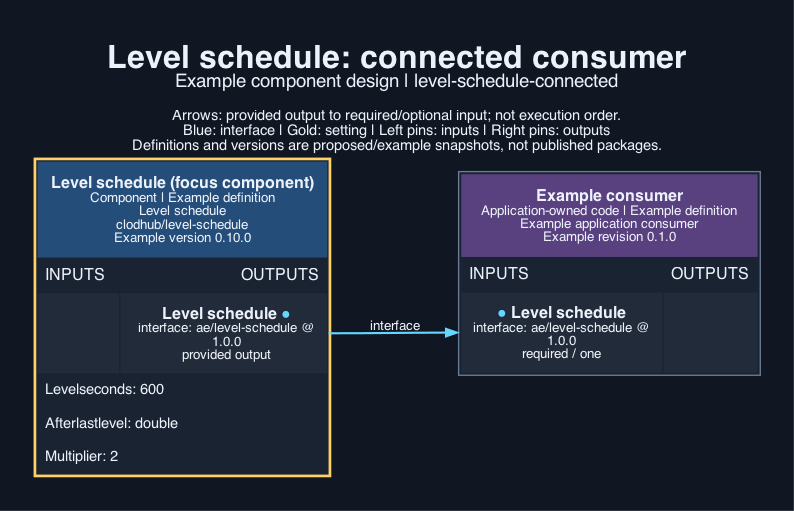
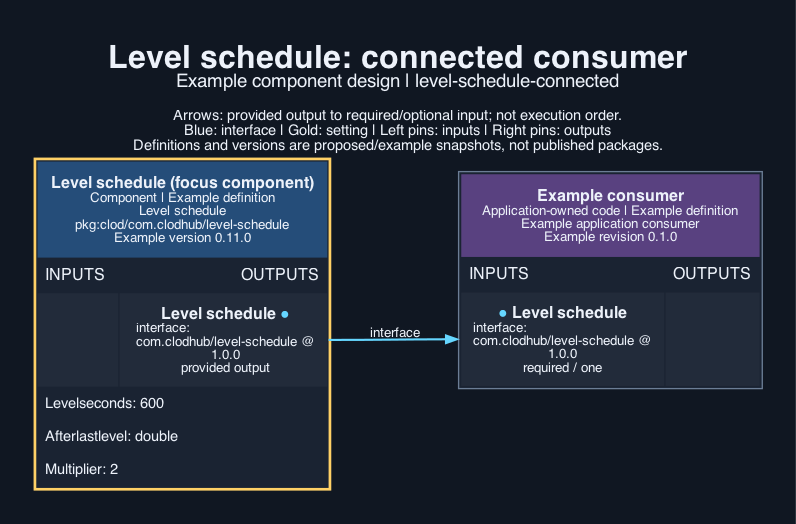
level-schedule 0.11.0: package URL names, clod, com.clodhub interface types

diff --git a/INSTRUCTIONS.md b/INSTRUCTIONS.md
@@ -3,12 +3,12 @@
 ## For the agent
 Select this component for any game whose stakes rise on a timer. Set `levelSeconds` from the recipe's level length answer, and `afterLastLevel` and `multiplier` from the house rules (hold'em: 600, double, 2). Supply the level list from the rules file. Connect the provided `level-schedule` to the tournament component.
 
-- Select package `clodhub/level-schedule` version `0.10.0`.
+- Select package `pkg:clod/com.clodhub/level-schedule` version `0.11.0`.
 - Settings to configure:
   - `levelSeconds` (integer; optional; default `600`)
   - `afterLastLevel` (string, slug; optional; default `double`)
   - `multiplier` (integer; optional; default `2`)
-- Connect the provided `level-schedule` (ae/level-schedule 1.0.0) to the consumer that needs it.
+- Connect the provided `level-schedule` (com.clodhub/level-schedule 1.0.0) to the consumer that needs it.
 - No accounts or keys are needed.
 
 ## For the developer
@@ -18,4 +18,4 @@ Pass the unpaused level clock in milliseconds; do not pass wall-clock time or th
 From the component directory:
 
 - `node --test tests/web.test.ts` (web, required-local; tools: node 26.5)
-- `python3 -m aepm review <digest> --store STORE --policy POLICY --trusted --allow-network` checks an archive fetched with `python3 -m aepm fetch clodhub/level-schedule@VERSION --store STORE --from https://clodhub.com` and runs its suites.
+- `python3 -m clod review <digest> --store STORE --policy POLICY --trusted --allow-network` checks an archive fetched with `python3 -m clod fetch level-schedule@VERSION --store STORE --from https://clodhub.com` and runs its suites.

diff --git a/CONTRACT.md b/CONTRACT.md
@@ -21,7 +21,7 @@ Dependencies: none.
 `tools.lock.json` pins verification tools: node 26.5. Licence: `Apache-2.0` (`LICENCE`, `NOTICE`).
 
 ## Provided interfaces
-- `interfaces/level-schedule.json` defines `level-schedule` (ae/level-schedule) version 1.0.0: an OpenRPC 1.3.2 document, one method per function (a member of a created object is `<Type>.<member>`), with parameter, result and data types as JSON Schema 2020-12 (`components.schemas`) and thrown errors under `errors`.
+- `interfaces/level-schedule.json` defines `level-schedule` (com.clodhub/level-schedule) version 1.0.0: an OpenRPC 1.3.2 document, one method per function (a member of a created object is `<Type>.<member>`), with parameter, result and data types as JSON Schema 2020-12 (`components.schemas`) and thrown errors under `errors`.
 
 ## Required interfaces
 None.

diff --git a/visual/output/description.md b/visual/output/description.md
@@ -1,3 +1,3 @@
 # Level schedule
 
-The level-schedule component at version 0.10.0 provides ae/level-schedule version 1.0.0 to an illustrative application consumer. The single arrow runs from the named output to its required input. Setting values shown are placeholders and secrets appear only as references.
+The level-schedule component at version 0.11.0 provides com.clodhub/level-schedule version 1.0.0 to an illustrative application consumer. The single arrow runs from the named output to its required input. Setting values shown are placeholders and secrets appear only as references.

diff --git a/.opencode/knowledge/workflow.md b/.opencode/knowledge/workflow.md
@@ -2,5 +2,5 @@
 
 Repository: `clodhub/level-schedule`. Licence: `Apache-2.0` (`LICENCE`, `NOTICE`).
 Suite commands (from the package root): `node --test tests/web.test.ts`.
-Review a fetched archive: `python3 -m aepm review <digest> --store STORE --policy POLICY --trusted --allow-network`.
+Review a fetched archive: `python3 -m clod review <digest> --store STORE --policy POLICY --trusted --allow-network`.
 Always run Python with `-B`; never write bytecode into the repository.
